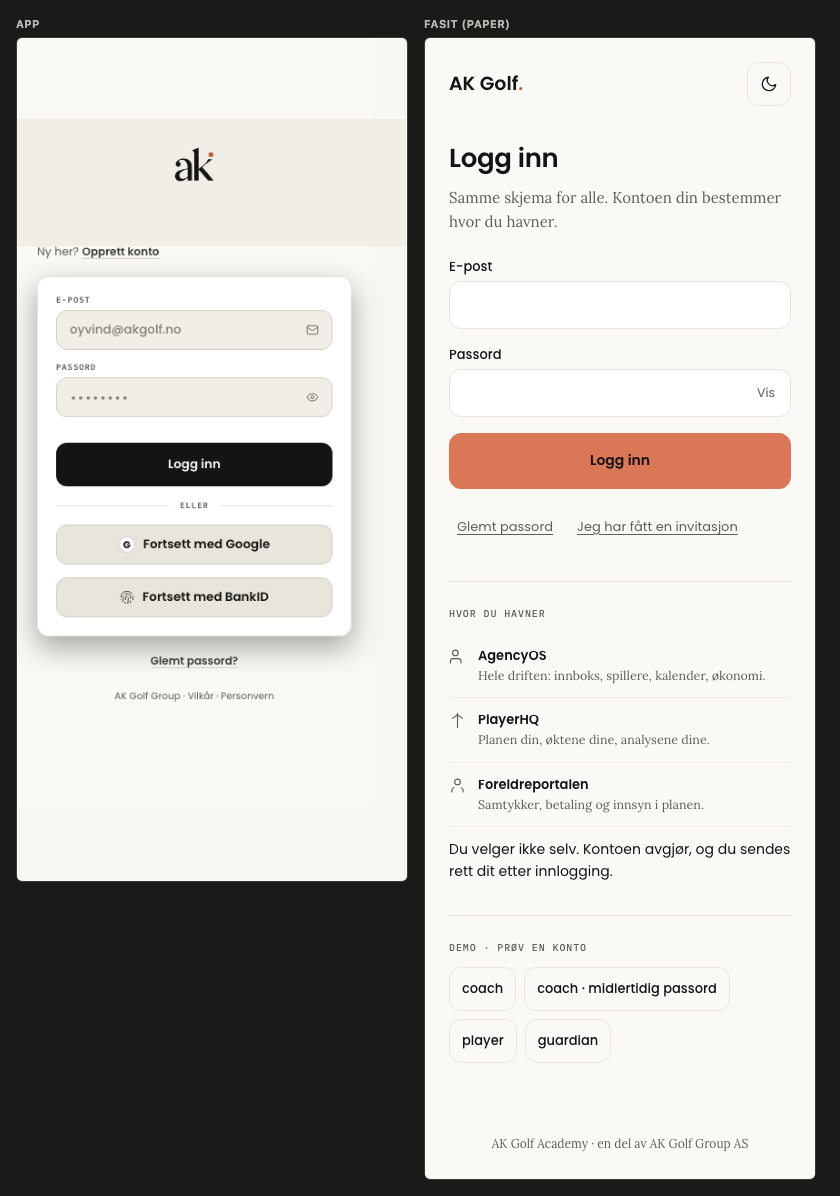
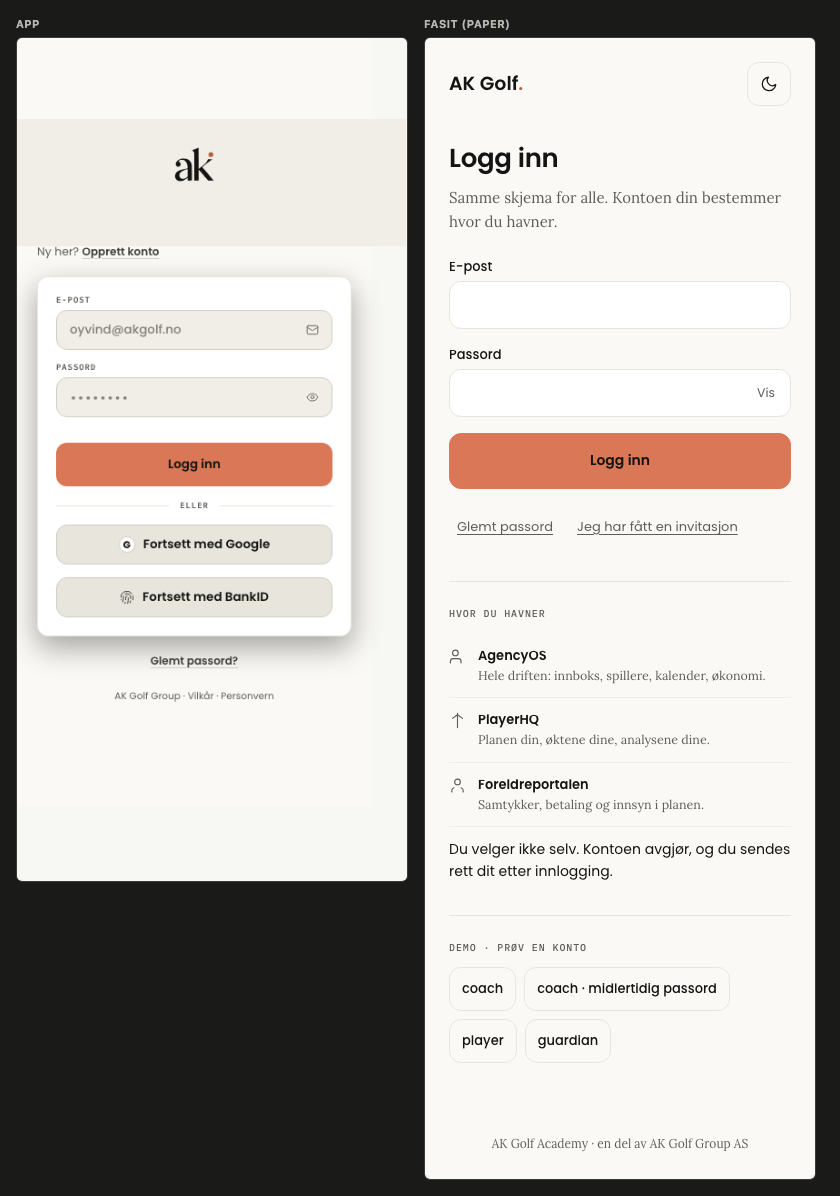
feat(paper): Analyse kortet fra 13 til 4 kort + oransje innlogging
Anders' to beslutninger 10.08.2026, tatt på grunnlag av sign-off-galleriet.

Analyse (PP-1.3): SG-fanen viste tretten kort i én scroll der Paper-fasiten har
fire. Nå: SG-total, SG per område, «Én ting nå» og score siste ti runder.
Diagnose, slaglekkasje-tabellen, de tre nøkkeltallene og de tre videre-lenkene
(Hull-analyse, Gameplan, Sammenlign med proffer) er flyttet til Statistikk-fanen
som ny AnalyseDybde-komponent. Ingenting er fjernet — alt ligger ett trykk unna.

Sidegevinst: «Én ting nå» er nå tredje kort i stedet for sjuende, som fasiten.

Innlogging (PP-1.6): primærknappen er clay i stedet for ink. Innlogging er den
ene skjermen der «Logg inn» ER den ene handlingen, så det bryter ikke
handlings-monopolet. Fasiten innlogging.html har alltid vist den oransje.

Også: `_raw-*.png` fra galleri-skriptet gitignorert — kun de ferdige montasjene
hører hjemme i repoet.

Galleriet er oppdatert med nye bilder og status per skjerm.

npm run verify: grønt. npm test: 943/943.

Changed region(s): [[0.0619, 0.3712, 0.4024, 0.4331]]

diff --git a/src/components/portal/v2/AnalysereV2.tsx b/src/components/portal/v2/AnalysereV2.tsx
@@ -221,18 +221,6 @@ function TabSG({ data, mobile }: { data: AnalysereData; mobile: boolean }) {
                «−0,0» på alle fire og skjuler rangeringen. */
             desimaler={2}
           />
-          {nesteFokus?.diagnose && (
-            <Diagnose
-              symptom={nesteFokus.diagnose.symptom}
-              /* bevis = null: datakontrakten bærer ingen spiller-vs-baseline-verdi
-                 for symptomet, og fabrikkerte bevis-søyler er verre enn ingen. */
-              bevis={null}
-              grunnlag={nesteFokus.diagnose.grunnlag}
-              resept={{ akse: nesteFokus.diagnose.resept.akse as AkseKey, tekst: nesteFokus.diagnose.resept.tekst }}
-              ctaTekst={undefined}
-              ctaHref={undefined}
-            />
-          )}
         </div>
       ) : (
         <Kort eyebrow="Per område" action={<HjelpTips k="sgBaseline" size={12} />}>
@@ -262,16 +250,6 @@ function TabSG({ data, mobile }: { data: AnalysereData; mobile: boolean }) {
             })()}
             handlingHref={nesteFokus.handlingHref}
           />
-          {/* lekkasjeBaand ble beregnet i loaderen men aldri vist — SlagLekkasje
-              er fasit-kortet for nettopp den kontrakten ({id,label,sg,slag}). */}
-          {nesteFokus.lekkasjeBaand.length > 0 && (
-            <SlagLekkasje
-              baand={nesteFokus.lekkasjeBaand}
-              baseline={nesteFokus.baseline}
-              grunnlag={nesteFokus.grunnlag}
-              desimaler={2}
-            />
-          )}
         </div>
       )}
 
@@ -291,7 +269,47 @@ function TabSG({ data, mobile }: { data: AnalysereData; mobile: boolean }) {
         </Kort>
       )}
 
-      <div className="grid grid-cols-2 md:grid-cols-3" style={{ gridColumn: "1 / -1", gap: T.gap, alignItems: "start" }}>
+    </div>
+  );
+}
+
+/**
+ * Dybdelaget bak Statistikk-fanen (Anders 10.08.2026): diagnose, slaglekkasje,
+ * nøkkeltall og de tre videre-lenkene lå tidligere under SG-fanen og gjorde den
+ * til 13 kort i én scroll. Fasiten playerhq-analyse.html har fire. Ingenting er
+ * fjernet — alt ligger ett trykk unna.
+ */
+function AnalyseDybde({ data, mobile }: { data: AnalysereData; mobile: boolean }) {
+  const { sgStatus, nesteFokus } = data.minGolf;
+  const { rounds, training } = data.workbench;
+
+  return (
+    <div style={{ display: "flex", flexDirection: "column", gap: T.gap }}>
+      {nesteFokus?.diagnose && (
+        <Diagnose
+          symptom={nesteFokus.diagnose.symptom}
+          /* bevis = null: datakontrakten bærer ingen spiller-vs-baseline-verdi
+             for symptomet, og fabrikkerte bevis-søyler er verre enn ingen. */
+          bevis={null}
+          grunnlag={nesteFokus.diagnose.grunnlag}
+          resept={{ akse: nesteFokus.diagnose.resept.akse as AkseKey, tekst: nesteFokus.diagnose.resept.tekst }}
+          ctaTekst={undefined}
+          ctaHref={undefined}
+        />
+      )}
+
+      {/* lekkasjeBaand ble beregnet i loaderen men aldri vist — SlagLekkasje
+          er fasit-kortet for nettopp den kontrakten ({id,label,sg,slag}). */}
+      {nesteFokus && nesteFokus.lekkasjeBaand.length > 0 && (
+        <SlagLekkasje
+          baand={nesteFokus.lekkasjeBaand}
+          baseline={nesteFokus.baseline}
+          grunnlag={nesteFokus.grunnlag}
+          desimaler={2}
+        />
+      )}
+
+      <div className="grid grid-cols-2 md:grid-cols-3" style={{ gap: T.gap, alignItems: "start" }}>
         {[
           { ic: "target", l: "SG-nedbrytning", s: `${sgStatus.kategorier.length} områder · ${sgStatus.baseline}` },
           { ic: "flag", l: "Runder", s: `${rounds.totalRounds} i sesong${rounds.bestScore != null ? ` · beste ${rounds.bestScore}` : ""}` },
@@ -307,7 +325,7 @@ function TabSG({ data, mobile }: { data: AnalysereData; mobile: boolean }) {
         ))}
       </div>
 
-      <div className="grid grid-cols-1 md:grid-cols-2" style={{ gridColumn: "1 / -1", gap: T.gap }}>
+      <div className="grid grid-cols-1 md:grid-cols-2" style={{ gap: T.gap }}>
         {[
           { href: "/portal/analysere/hull", ic: "map", l: "Hull-analyse", s: "Hvor taper du slag — hull for hull" },
           { href: "/portal/gameplan", ic: "crosshair", l: "Gameplan", s: "Banekart, spredning og hull-for-hull sikte" },
@@ -335,7 +353,7 @@ function TabSG({ data, mobile }: { data: AnalysereData; mobile: boolean }) {
 
 /* ── Fane: Statistikk ──────────────────────────────────────────────── */
 
-function TabStatistikk({ data }: { data: AnalysereData }) {
+function TabStatistikk({ data, mobile }: { data: AnalysereData; mobile: boolean }) {
   const { rounds } = data.workbench;
   const { tigerFive } = data.minGolf.runder;
 
@@ -409,6 +427,8 @@ function TabStatistikk({ data }: { data: AnalysereData }) {
           <TomTilstand icon="flag" title="Ingen runder" sub="Runder du registrerer dukker opp her." />
         )}
       </Kort>
+
+      <AnalyseDybde data={data} mobile={mobile} />
     </div>
   );
 }
@@ -967,7 +987,7 @@ export function AnalysereV2({
 
       <FaneInnhold key={tab}>
         {tab === "sg" && <TabSG data={data} mobile={mobile} />}
-        {tab === "statistikk" && <TabStatistikk data={data} />}
+        {tab === "statistikk" && <TabStatistikk data={data} mobile={mobile} />}
         {tab === "trening" && <TabTrening data={data} mobile={mobile} userId={userId} />}
         {tab === "trackman" && deep && <TabTrackman data={data} mobile={mobile} />}
         {tab === "tester" && <TabTester data={data} mobile={mobile} />}

diff --git a/src/components/portal/v2/LoginV2.tsx b/src/components/portal/v2/LoginV2.tsx
@@ -126,9 +126,11 @@ function Knapp({
   disabled?: boolean;
   ariaBusy?: boolean;
 }) {
+  // Innlogging er den ene skjermen der «Logg inn» ER den ene handlingen, så clay
+  // bryter ikke monopolet. Anders bekreftet mot fasit innlogging.html 10.08.2026.
   const v: CSSProperties =
     variant === "primary"
-      ? { background: T.cta, color: T.onCta, border: "none", minHeight: 48 }
+      ? { background: T.handling, color: T.onHandling, border: "none", minHeight: 48 }
       : { background: T.panel3, color: T.fg, border: `1px solid ${T.borderS}` };
   return (
     <button

diff --git a/docs/port/SIGNOFF-GALLERI-2026-08-10.md b/docs/port/SIGNOFF-GALLERI-2026-08-10.md
@@ -105,24 +105,26 @@ faste deler av skjermen, ikke innhold.*
 ![PP-1.3 desktop](../../screenshots/paper/signoff/PP-1.3-d1280.png)
 ![PP-1.3 mørk](../../screenshots/paper/signoff/PP-1.3-m390-dark.png)
 
-Dette er skjermen med størst forskjell i hele PlayerHQ.
+Dette *var* skjermen med størst forskjell i hele PlayerHQ. Etter Anders' beslutning 10.08 er den
+kortet fra tretten kort til fire.
 
 **Avvik**
 
-1. **Appen er fire ganger så lang som fasiten.** Fasiten er én skjerm: SG-total med fire
-   søylerader, en forklaringslinje, og handlingen. Appen har elleve seksjoner under hverandre —
-   Diagnose, Slaglekkasje med 13 rader, SG-nedbrytning, Runder, Treningsøkter, Hull-analyse,
-   Gameplan, Sammenlign med proffer.
+1. ~~Appen er fire ganger så lang som fasiten — tretten bokser mot fem.~~ **Løst 10.08 etter
+   Anders' beslutning.** SG-fanen viser nå fire kort: SG-total, SG per område, «Én ting nå» og
+   score siste ti runder. Diagnose, slaglekkasje, nøkkeltallene og de tre videre-lenkene er flyttet
+   til Statistikk-fanen. Ingenting er fjernet — alt ligger ett trykk unna. Bildet over viser
+   tilstanden etter endringen.
 2. **Fanene er ulike.** Fasit har tre fylte piller (Strokes Gained · Trening · Tester). Appen har
    fire med omriss (SG · Trening · Tester · Statistikk).
 3. **Ærlighetsnotisen mangler**: «Tallene er målinger, ikke karakterer. Ingen terskler er vurdert
    — regler og låser er midlertidig ute.» Den står rett under tittelen i fasiten.
-4. **Handlingen står for langt ned.** Fasit legger «Legg inn innspill-økt denne uka» rett under
-   SG-kortet. Appen har den etter fire andre kort.
+4. ~~Handlingen står for langt ned.~~ Løst av samme endring — «Legg inn putting-økt denne uka»
+   er nå tredje kort, ikke sjuende.
 5. **To oransje flater samtidig** — varselboksen «For lite putting-data ennå» og CTA-en lenger ned.
 
-**Anbefaling: FIKS FØRST**, men dette er ikke en natt-jobb. Punkt 1 er et spørsmål til deg:
-skal de åtte ekstra seksjonene bort, eller flyttes bak fanene?
+**Anbefaling: GODKJENN** når du har sett bildet. Punkt 2, 3 og 5 er småting som kan tas i neste
+runde — de endrer ikke hva skjermen er.
 
 ---
 
@@ -186,9 +188,9 @@ Utviklingsplan, Konto) er utenfor fasitens dekning — det kan ikke vurderes her
    Kontoen din bestemmer hvor du havner.» Appen går rett på feltene.
 2. **«Hvor du havner»-seksjonen mangler helt** — de tre linjene som forklarer AgencyOS, PlayerHQ
    og Foreldreportalen, og setningen «Du velger ikke selv. Kontoen avgjør.»
-3. **Knappefargen spriker.** Fasiten har oransje «Logg inn». Appen har mørk/svart. *Dette er et
-   spørsmål til deg, ikke en feil: oransje er ellers reservert til «Én ting nå», og på
-   innloggingssiden finnes det bare én handling. Skal oransje gjelde her?*
+3. ~~Knappefargen spriker — fasiten har oransje «Logg inn», appen hadde mørk.~~ **Avgjort av
+   Anders 10.08: oransje.** Innlogging er den ene skjermen der «Logg inn» *er* den ene handlingen,
+   så clay bryter ikke monopolet. Rettet, og bildet over viser resultatet.
 4. **Logoen er plassert ulikt.** Fasit: «AK Golf.» som ordmerke øverst til venstre. App: ak-symbolet
    sentrert i et eget bånd over kortet.
 5. Google- og BankID-knappene finnes i appen, ikke i fasiten. *De er ekte funksjoner og skal bli —
@@ -335,11 +337,11 @@ coach. Det slår inn så snart det finnes bookinger med coach.*
 |---|---|---|
 | PP-1.1 I dag | Fiks først | Liten (skrivefelt, knapperekkefølge) |
 | PP-1.2 Plan | Fiks først | Middels (manglende ukeoppsummering) |
-| PP-1.3 Analyse | Fiks først | Stor (skjermen må kortes ned) |
+| PP-1.3 Analyse | **Klar for kryss** | 13 → 4 kort, gjort 10.08 |
 | PP-1.4 Meg | Fiks først, så godkjenn | Liten |
 | PP-1.5 Booking i app | Fiks først | Liten — én feil rettet i natt |
-| PP-1.6 Innlogging | Fiks først | Middels — venter på svar om oransje |
-| PP-1.7 Booking offentlig | **Blokkert** | Din beslutning om Acuity |
+| PP-1.6 Innlogging | Fiks først | Oransje knapp gjort; «Hvor du havner» gjenstår |
+| PP-1.7 Booking offentlig | **Låst til slutt** | Acuity blir stående til resten er ferdig |
 | PP-2.1 Konsoll | Fiks først | **Stor — ombygging** |
 | PP-2.2 Innboks | Fiks først | Stor + én ren feil |
 | PP-2.3 Spillere | Fiks først | Middels |
@@ -349,13 +351,15 @@ coach. Det slår inn så snart det finnes bookinger med coach.*
 plass over hele linjen, men formen ikke er det — særlig i AgencyOS, der tre av fire skjermer
 mangler kolonnen som gjør at du kan avgjøre noe uten å bytte side.
 
-## De tre spørsmålene jeg trenger svar på
+## De tre spørsmålene — besvart av Anders 10.08.2026
 
-1. **Skal innloggingsknappen være oransje?** Fasiten sier ja. Regelen om at oransje er reservert
-   til «Én ting nå» sier nei. Begge kan ikke stemme.
-2. **Hva skal skje med de åtte ekstra seksjonene på Analyse?** Bort, eller bak faner?
-3. **Blir Acuity-omveien stående?** Så lenge den står kan ikke den offentlige bookingsiden bygges
-   mot fasiten.
+1. **Innloggingsknappen skal være oransje.** Innlogging er den ene skjermen der «Logg inn» er den
+   ene handlingen, så clay bryter ikke «Én ting nå»-monopolet. Bygget.
+2. **De åtte ekstra seksjonene på Analyse flyttes bak fanene.** Førsteskjermen viser tallet, hvor
+   lekkasjen er, og den ene tingen å gjøre. Resten ligger under Statistikk. Ingenting slettet.
+   Bygget.
+3. **Acuity-omveien blir stående til alt annet er ferdig.** PP-1.7 er dermed låst til slutt av
+   porten, ikke et åpent spørsmål. Ikke rør `vercel.json`-videresendingen.
 
 ## Fotnote om metoden
 
